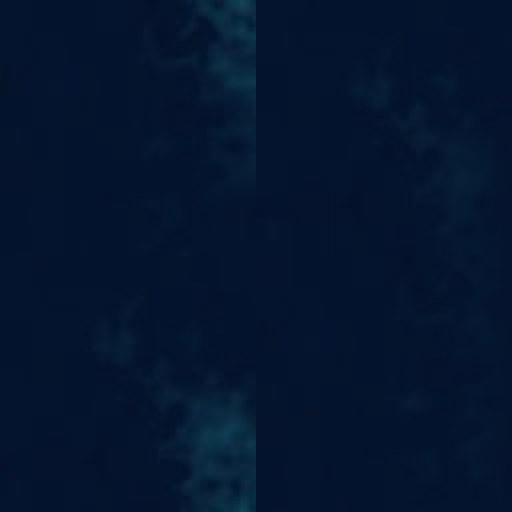
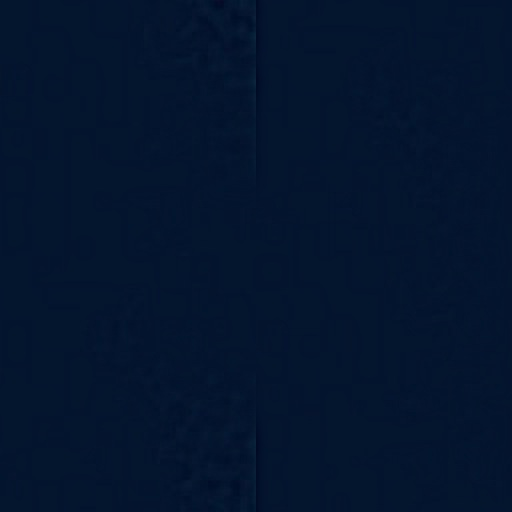
Fond de page : supprimer les grandes structures au lieu de les attenuer
Les captures montraient de grosses taches qui revenaient. Mesure du spectre :
81% de l'energie du satellite et 71% du parchemin etaient dans des structures
de plus de 64 px, c'est-a-dire une grosse tache par tuile, repetee a l'ecran
autant de fois que la tuile tient dans la vue. C'est ma propre texture qui
fabriquait le motif : un fBm en beta=2.6 met presque tout dans les plus basses
frequences.

Tentative intermediaire abandonnee : empiler la texture a trois echelles en
rapport phi. La mesure qui la validait etait fausse — je l'avais prise au pas
d'une couche minoritaire. Au pas de la couche dominante la repetition restait
a 0.66, et un seul fichier PNG ne peut de toute facon porter qu'un seul alpha,
donc la couche du dessus ecrase les autres.

Ce qui marche : effacer franchement, pas attenuer. Les trois textures sont
passe-haut au-dessus de ~24 px, il ne reste que le grain. L'oeil ne repere pas
une periode, il repere une forme qui revient ; sans forme, rien a voir.

  residu de grande echelle, en niveaux de gris
  terrain    1.21 -> 0.04
  satellite  3.20 -> 0.06
  parchemin  (regenere en bande etroite) 0.01

soit sous le seuil de perception d'un ecran 8 bits.

Contrepartie assumee : le fond ne reproduit plus les grandes mouchetures de la
carte, il n'en garde que la couleur exacte et le grain. Aucune tuile repetee ne
peut porter de grande structure sans se trahir.

Au passage : plancher de background-size releve de 6 a 32 px, sinon reduire une
[…]

diff --git a/js/theme.js b/js/theme.js
@@ -38,13 +38,21 @@
      parce que l'échantillon prélevé attrapait les vaguelettes de l'océan et
      les transformait en stries.
 
+     Les trois textures sont passe-haut : tout ce qui est plus grand que ~24 px
+     est efface, il ne reste que le grain. C'est la seule facon de repeter une
+     tuile sans que la repetition se voie — l'oeil ne repere pas une periode,
+     il repere une FORME qui revient. Residu de grande echelle mesure a 0.04 /
+     0.06 / 0.01 niveau de gris, soit sous le seuil d'un ecran 8 bits.
+     Contrepartie assumee : le fond ne reproduit pas les grandes moucheture de
+     la carte, il n'en garde que la couleur exacte et le grain.
+
      Troisième valeur = largeur du motif en pixels du zoom 7, c'est-à-dire en
      pixels du raster d'origine. C'est elle qui permet de suivre l'échelle. */
   const MAXZ = 7;
   const FOND_CARTE = {
-    Parchemin: ['#d5b98c', 'img/fond-parchemin.jpg', 512],
-    Satellite: ['#04152e', 'img/fond-satellite.jpg', 256],
-    Terrain:   ['#050418', 'img/fond-terrain.jpg',   256],
+    Parchemin: ['#d5b88c', 'img/fond-parchemin.jpg', 256],
+    Satellite: ['#03142e', 'img/fond-satellite.jpg', 256],
+    Terrain:   ['#040417', 'img/fond-terrain.jpg',   256],
   };
   let baseCourante = 'Terrain';
 
@@ -71,7 +79,9 @@
     const c = document.querySelector('.leaflet-container'); if (!c) return;
     const m = window.map; if (!m) return;
     const ref = FOND_CARTE[baseCourante][2];
-    const t = Math.max(6, Math.min(8192, ref * Math.pow(2, m.getZoom() - MAXZ)));
+    // plancher a 32 px : plus bas, reduire une tuile de 512 px fabrique du
+    // moire, et de toute facon le grain de la carte n'est plus lisible la-bas
+    const t = Math.max(32, Math.min(8192, ref * Math.pow(2, m.getZoom() - MAXZ)));
     c.style.backgroundSize = t.toFixed(2) + 'px ' + t.toFixed(2) + 'px';
     const o = L.DomUtil.getPosition(m.getPane('mapPane'));
     c.style.backgroundPosition = o ? (o.x % t) + 'px ' + (o.y % t) + 'px' : '';

diff --git a/index.html b/index.html
@@ -46,7 +46,7 @@
      dans css/theme.css, en variables de thème. */
 </style>
 <!-- theme.css EN PREMIER : il définit les variables que les autres consomment -->
-<link rel="stylesheet" href="css/theme.css?v=2026-08-24b">
+<link rel="stylesheet" href="css/theme.css?v=2026-08-24c">
 <link rel="stylesheet" href="css/search.css">
 <link rel="stylesheet" href="css/panel.css">
 <link rel="stylesheet" href="css/explo.css">
@@ -67,7 +67,7 @@
 <div id="rechRes" role="listbox" aria-label="Résultats de recherche"></div>
 
 <script>
-window.INARAMA_BUILD='2026-08-24b';   // bump à chaque mise à jour de données (cache-busting)
+window.INARAMA_BUILD='2026-08-24c';   // bump à chaque mise à jour de données (cache-busting)
 window.INARAMA={_d:{},_cb:{},_inj:{},_pend:{},
   reg:function(n,d){this._d[n]=d;(this._cb[n]||[]).forEach(f=>f(d));this._cb[n]=[];},
   load:function(n,cb){if(this._d[n])return cb(this._d[n]);
@@ -436,9 +436,9 @@ function terresHover(on){ tzOn=on;
    nécessaire, plutôt que de tout rendre global. */
 Object.assign(window,{ map, c2ll, RAR, lieuxMk, MAXZ, W, H, lieuxSync, bounds });
 </script>
-<script src="js/theme.js?v=2026-08-24b"></script>
-<script src="js/panel.js?v=2026-08-24b"></script>
-<script src="js/explo.js?v=2026-08-24b"></script>
-<script src="js/search.js?v=2026-08-24b"></script>
+<script src="js/theme.js?v=2026-08-24c"></script>
+<script src="js/panel.js?v=2026-08-24c"></script>
+<script src="js/explo.js?v=2026-08-24c"></script>
+<script src="js/search.js?v=2026-08-24c"></script>
 </body>
 </html>
